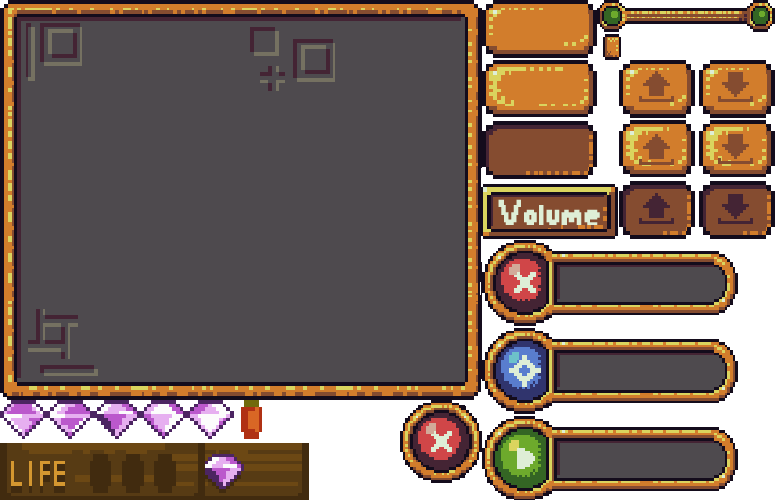
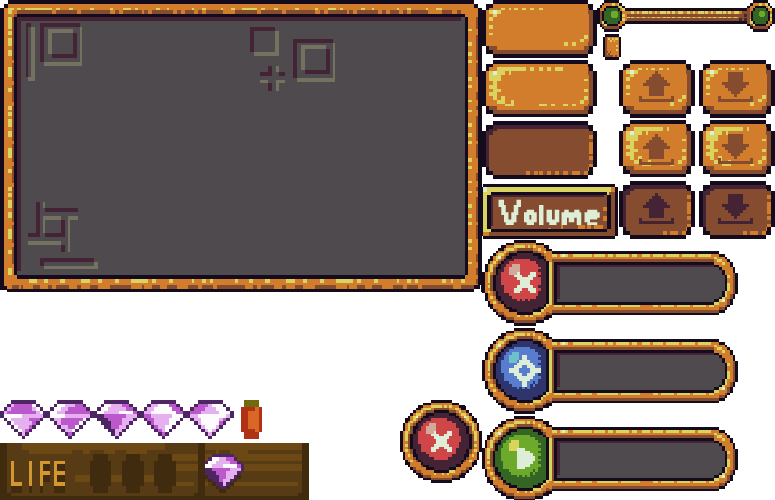
audio

diff --git a/Motor2D/j1Image.cpp b/Motor2D/j1Image.cpp
@@ -78,14 +78,14 @@ void j1Image::Draw()
 }
 
 void j1Image::createSettings() {
-	childs.add((j1ElementGUI*)new j1Button({ 0,100 }, "RESUME", &App->gui->button_anim, f_CloseWindow, true, graphics, this));
-	childs.add((j1ElementGUI*)new j1Slider({ 100,100 },HORIZONTAL,graphics,this));
-	childs.add((j1ElementGUI*)new j1Button({ 200,100 }, "LOAD", &App->gui->button_anim, f_Load, false, graphics, this));
-	childs.add((j1ElementGUI*)new j1Button({ 300,100 }, "SAVE", &App->gui->button_anim, f_Save, true, graphics, this));
+	childs.add((j1ElementGUI*)new j1Button({ 83, 43 }, "RESUME", &App->gui->button_anim, f_CloseWindow, true, graphics, this));
+	childs.add((j1ElementGUI*)new j1Button({ 60, 115 }, "", &App->gui->button3_anim, f_Load, false, graphics, this));
+	childs.add((j1ElementGUI*)new j1Button({ 145,115 }, "", &App->gui->button2_anim, f_Save, true, graphics, this));
 	if(scene == Levels::Scene)
-		childs.add((j1ElementGUI*)new j1Button({ 400,100 }, "MENU", &App->gui->button_anim, f_Scene1toMainMenu, true, graphics, this));
+		childs.add((j1ElementGUI*)new j1Button({ 83,186}, "MENU", &App->gui->button_anim, f_Scene1toMainMenu, true, graphics, this));
 	else if (scene == Levels::Scene2)
-		childs.add((j1ElementGUI*)new j1Button({ 400,100 }, "MENU", &App->gui->button_anim, f_Scene2toMainMenu, true, graphics, this));
+		childs.add((j1ElementGUI*)new j1Button({ 83,186 }, "MENU", &App->gui->button_anim, f_Scene2toMainMenu, true, graphics, this));
+	childs.add((j1ElementGUI*)new j1Slider({ 140, 80 }, HORIZONTAL, graphics, this));
 
 }
 

diff --git a/Motor2D/j1Slider.cpp b/Motor2D/j1Slider.cpp
@@ -5,6 +5,7 @@
 #include "p2Log.h"
 #include "j1ElementGUI.h"
 #include "j1Textures.h"
+#include "j1Audio.h"
 
 
 j1Slider::j1Slider(fPoint position, OrientationType orientation, SDL_Texture* graphics, j1ElementGUI* parent, ElementUIType type) :
@@ -13,7 +14,8 @@ j1Slider::j1Slider(fPoint position, OrientationType orientation, SDL_Texture* gr
 {
 	slide = new j1Image({ position.x, position.y }, new SDL_Rect({ 598,0,177,32 }),Levels::NONE, windowType::NONE, graphics,this);
 	thumb = new j1Image({ position.x, position.y }, new SDL_Rect({ 604,34,18,26 }), Levels::NONE, windowType::NONE, graphics,this);
-	label = new j1Label({ position.x + 79, position.y - 15 }, "100", nullptr, this);
+	label = new j1Label({ position.x - 25, position.y + 12}, "100", nullptr, this);
+	childs.add((j1ElementGUI*)new j1Image({ position.x + 20, position.y - 65 }, new SDL_Rect({ 481,181,138,55 }), Levels::NONE, windowType::NONE, graphics, this));
 
 	offset = 28;
 
@@ -24,7 +26,8 @@ j1Slider::j1Slider(fPoint position, OrientationType orientation, SDL_Texture* gr
 	childs.add(thumb);
 	childs.add(label);
 
-	setSliderValue(50);
+	setSliderValue(App->audio->v_music * 100);
+	App->audio->ChangeMusicVolume();
 }
 
 
@@ -75,6 +78,12 @@ bool j1Slider::Update(float dt)
 	if (temp != label->text) {
 		label->text = temp;
 		label->UpdateText();
+
+		float volume = (float)sliderValue() / 100;
+		LOG("%f", volume);
+		App->audio->v_music = volume;
+		App->audio->v_fx = volume;
+		App->audio->ChangeMusicVolume();
 	}
 
 	return true;

diff --git a/Motor2D/j1Gui.cpp b/Motor2D/j1Gui.cpp
@@ -37,6 +37,14 @@ bool j1Gui::Awake(pugi::xml_node& conf)
 	button_anim.PushBack({ 483,60,114,58 });
 	button_anim.PushBack({ 483,121,114,58 });
 
+	button2_anim.PushBack({ 699,60,76,58 });
+	button2_anim.PushBack({ 699,120,76,58 });
+	button2_anim.PushBack({ 699,181,76,58 });
+
+	button3_anim.PushBack({ 619,60,76,58 });
+	button3_anim.PushBack({ 619,120,76,58 });
+	button3_anim.PushBack({ 619,181,76,58 });
+
 	return ret;
 }
 

diff --git a/Motor2D/j1Scene.cpp b/Motor2D/j1Scene.cpp
@@ -200,5 +200,5 @@ bool j1Scene::Save(pugi::xml_node& data) const
 void j1Scene::CreateHUD()
 {
 	if(settings == nullptr)
-		settings = App->gui->AddImage({ 0,0 }, new SDL_Rect({ 0,0,482,293 }), Levels::Scene, windowType::SETTINGS);
+		settings = App->gui->AddImage({ (float)(App->render->camera.w/2) - 241, (float)(App->render->camera.h / 2) - 146 }, new SDL_Rect({ 0,0,482,293 }), Levels::Scene, windowType::SETTINGS);
 }

diff --git a/Motor2D/j1Gui.h b/Motor2D/j1Gui.h
@@ -69,6 +69,8 @@ public:
 public:
 	p2List<j1ElementGUI*> elements;
 	j1Animation button_anim;
+	j1Animation button2_anim;
+	j1Animation button3_anim;
 	bool b_settings = false;
 	
 private:

diff --git a/Motor2D/j1Audio.cpp b/Motor2D/j1Audio.cpp
@@ -181,6 +181,7 @@ bool j1Audio::PlayFx(unsigned int id, int repeat)
 
 	if(id > 0 && id <= fx.count())
 	{
+		ChangeFxVolume(fx[id - 1]);
 		Mix_PlayChannel(-1, fx[id - 1], repeat);
 	}
 

diff --git a/Motor2D/j1Audio.h b/Motor2D/j1Audio.h
@@ -49,6 +49,7 @@ private:
 	p2List<Mix_Chunk*>	fx;
 	p2SString			music_path;
 	p2SString			fx_path;
+public:
 	float v_music;
 	float v_fx;
 };
